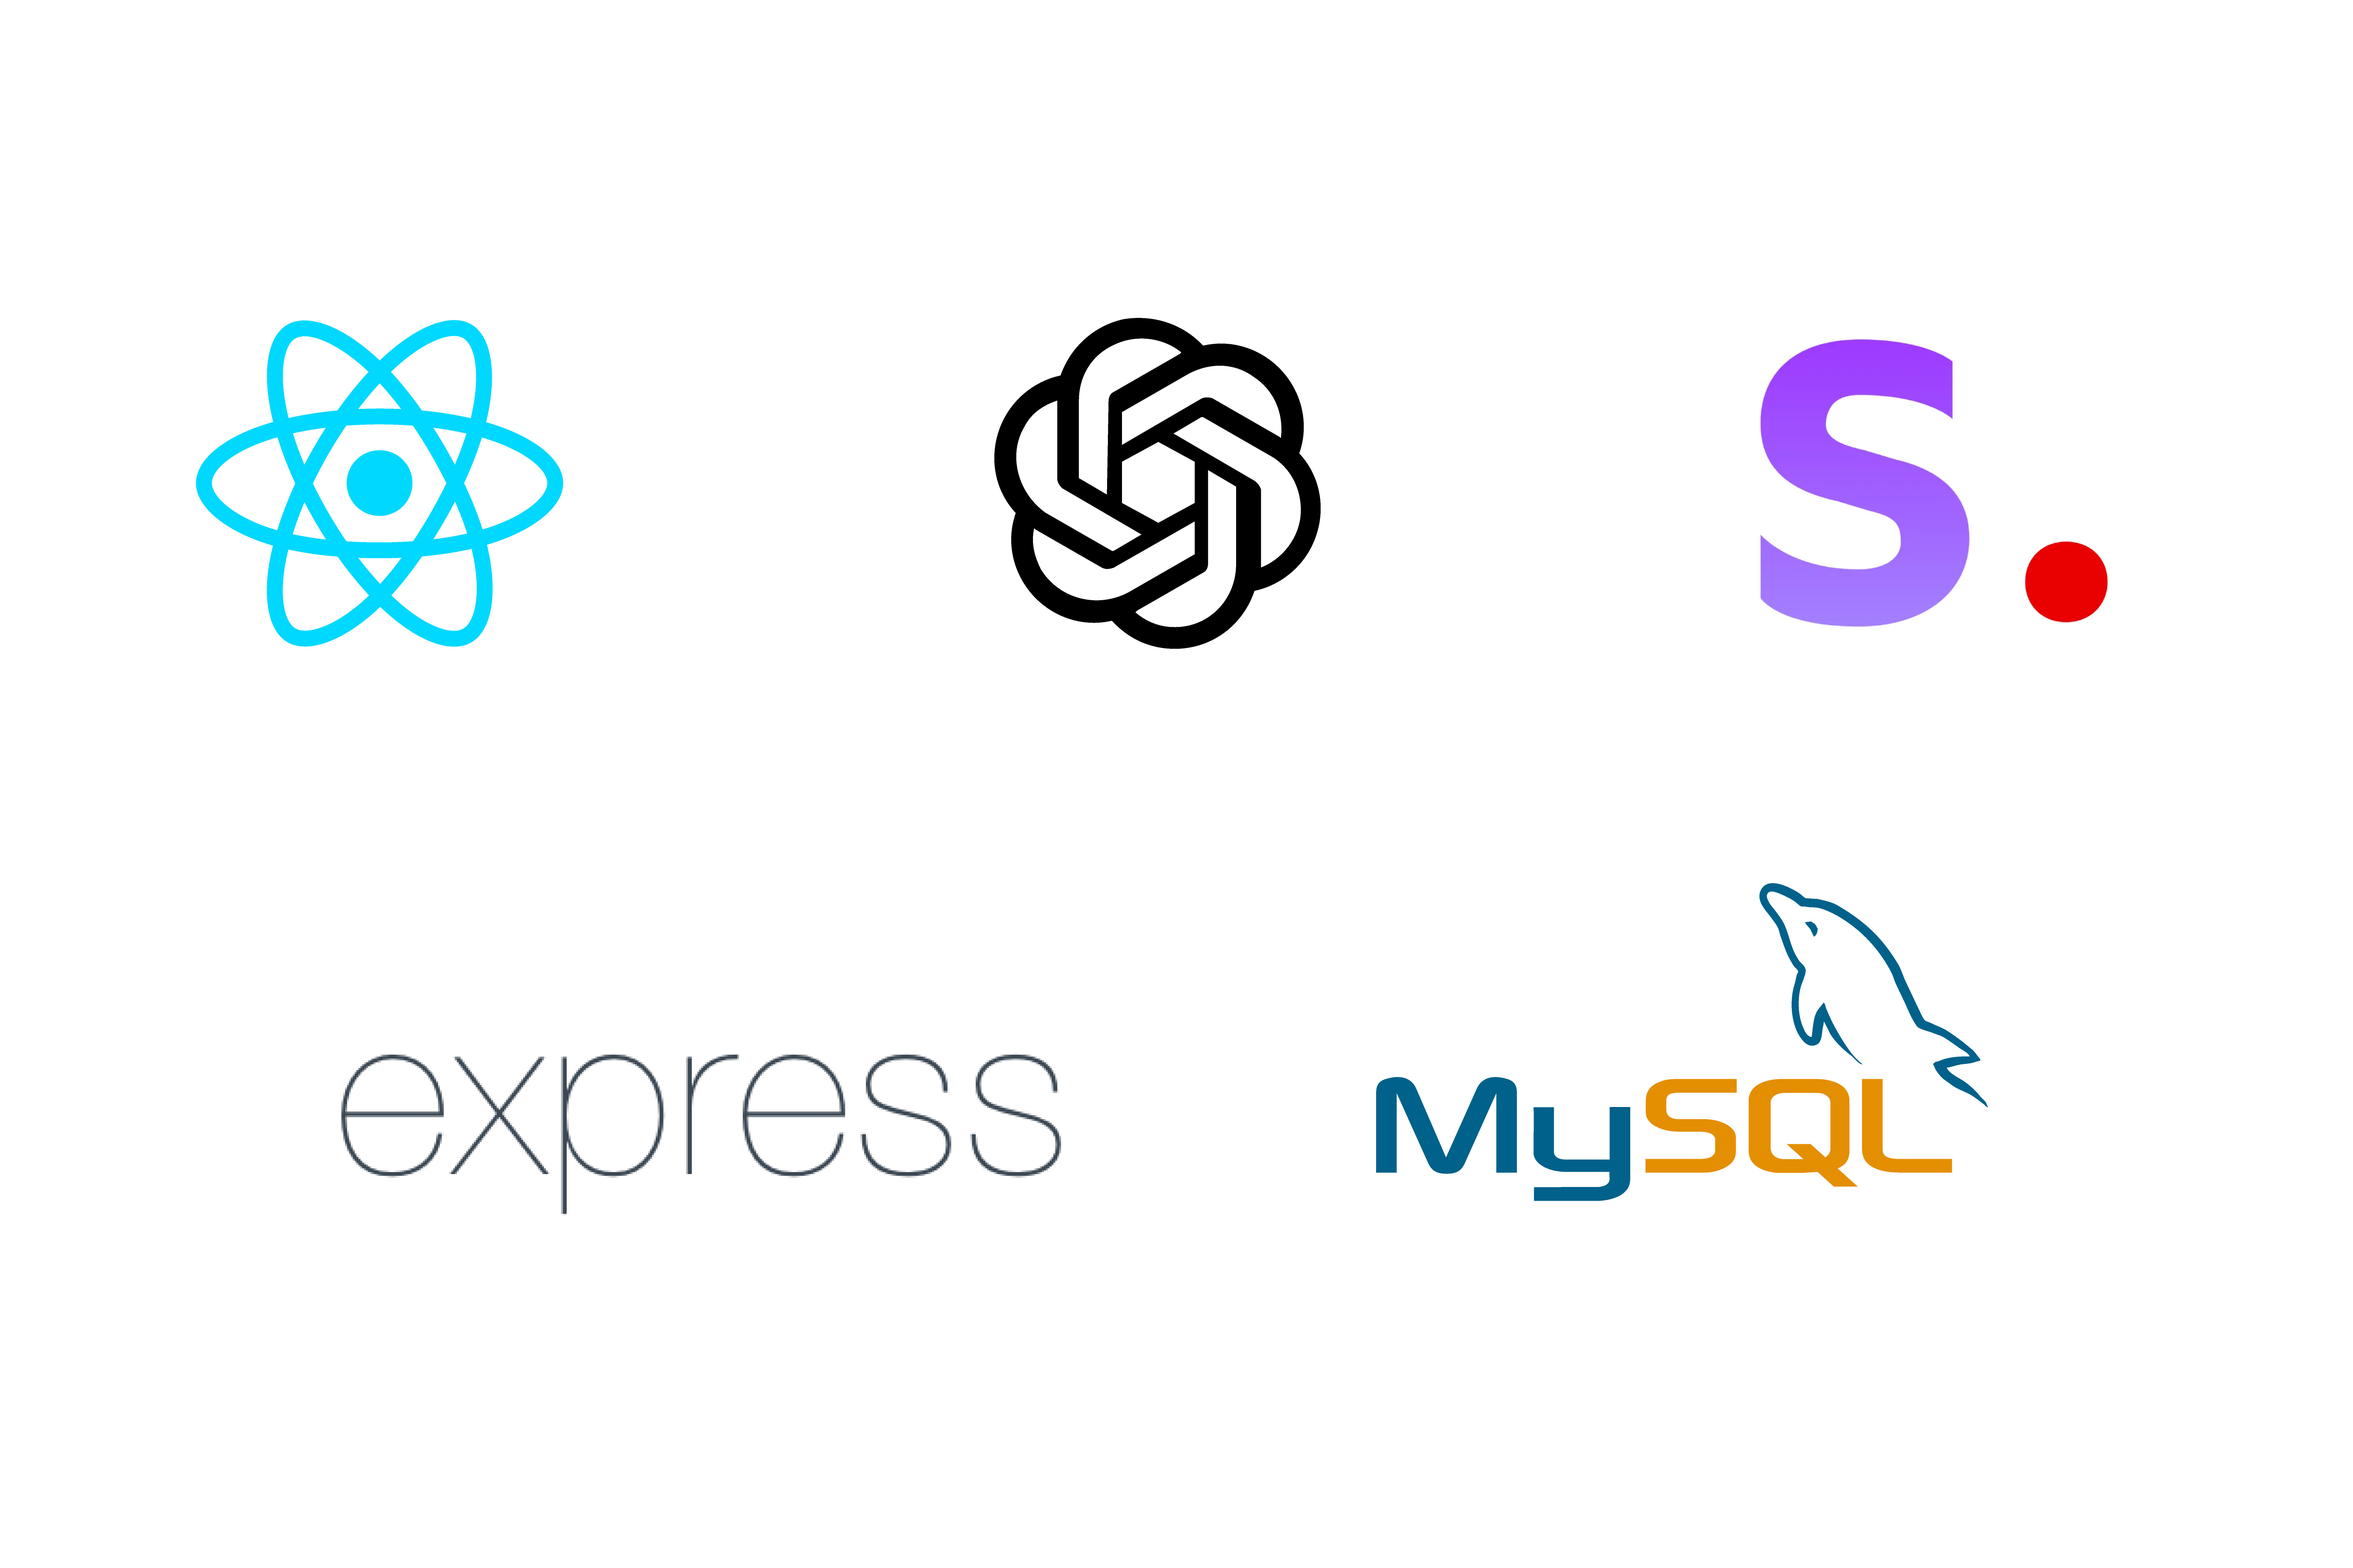
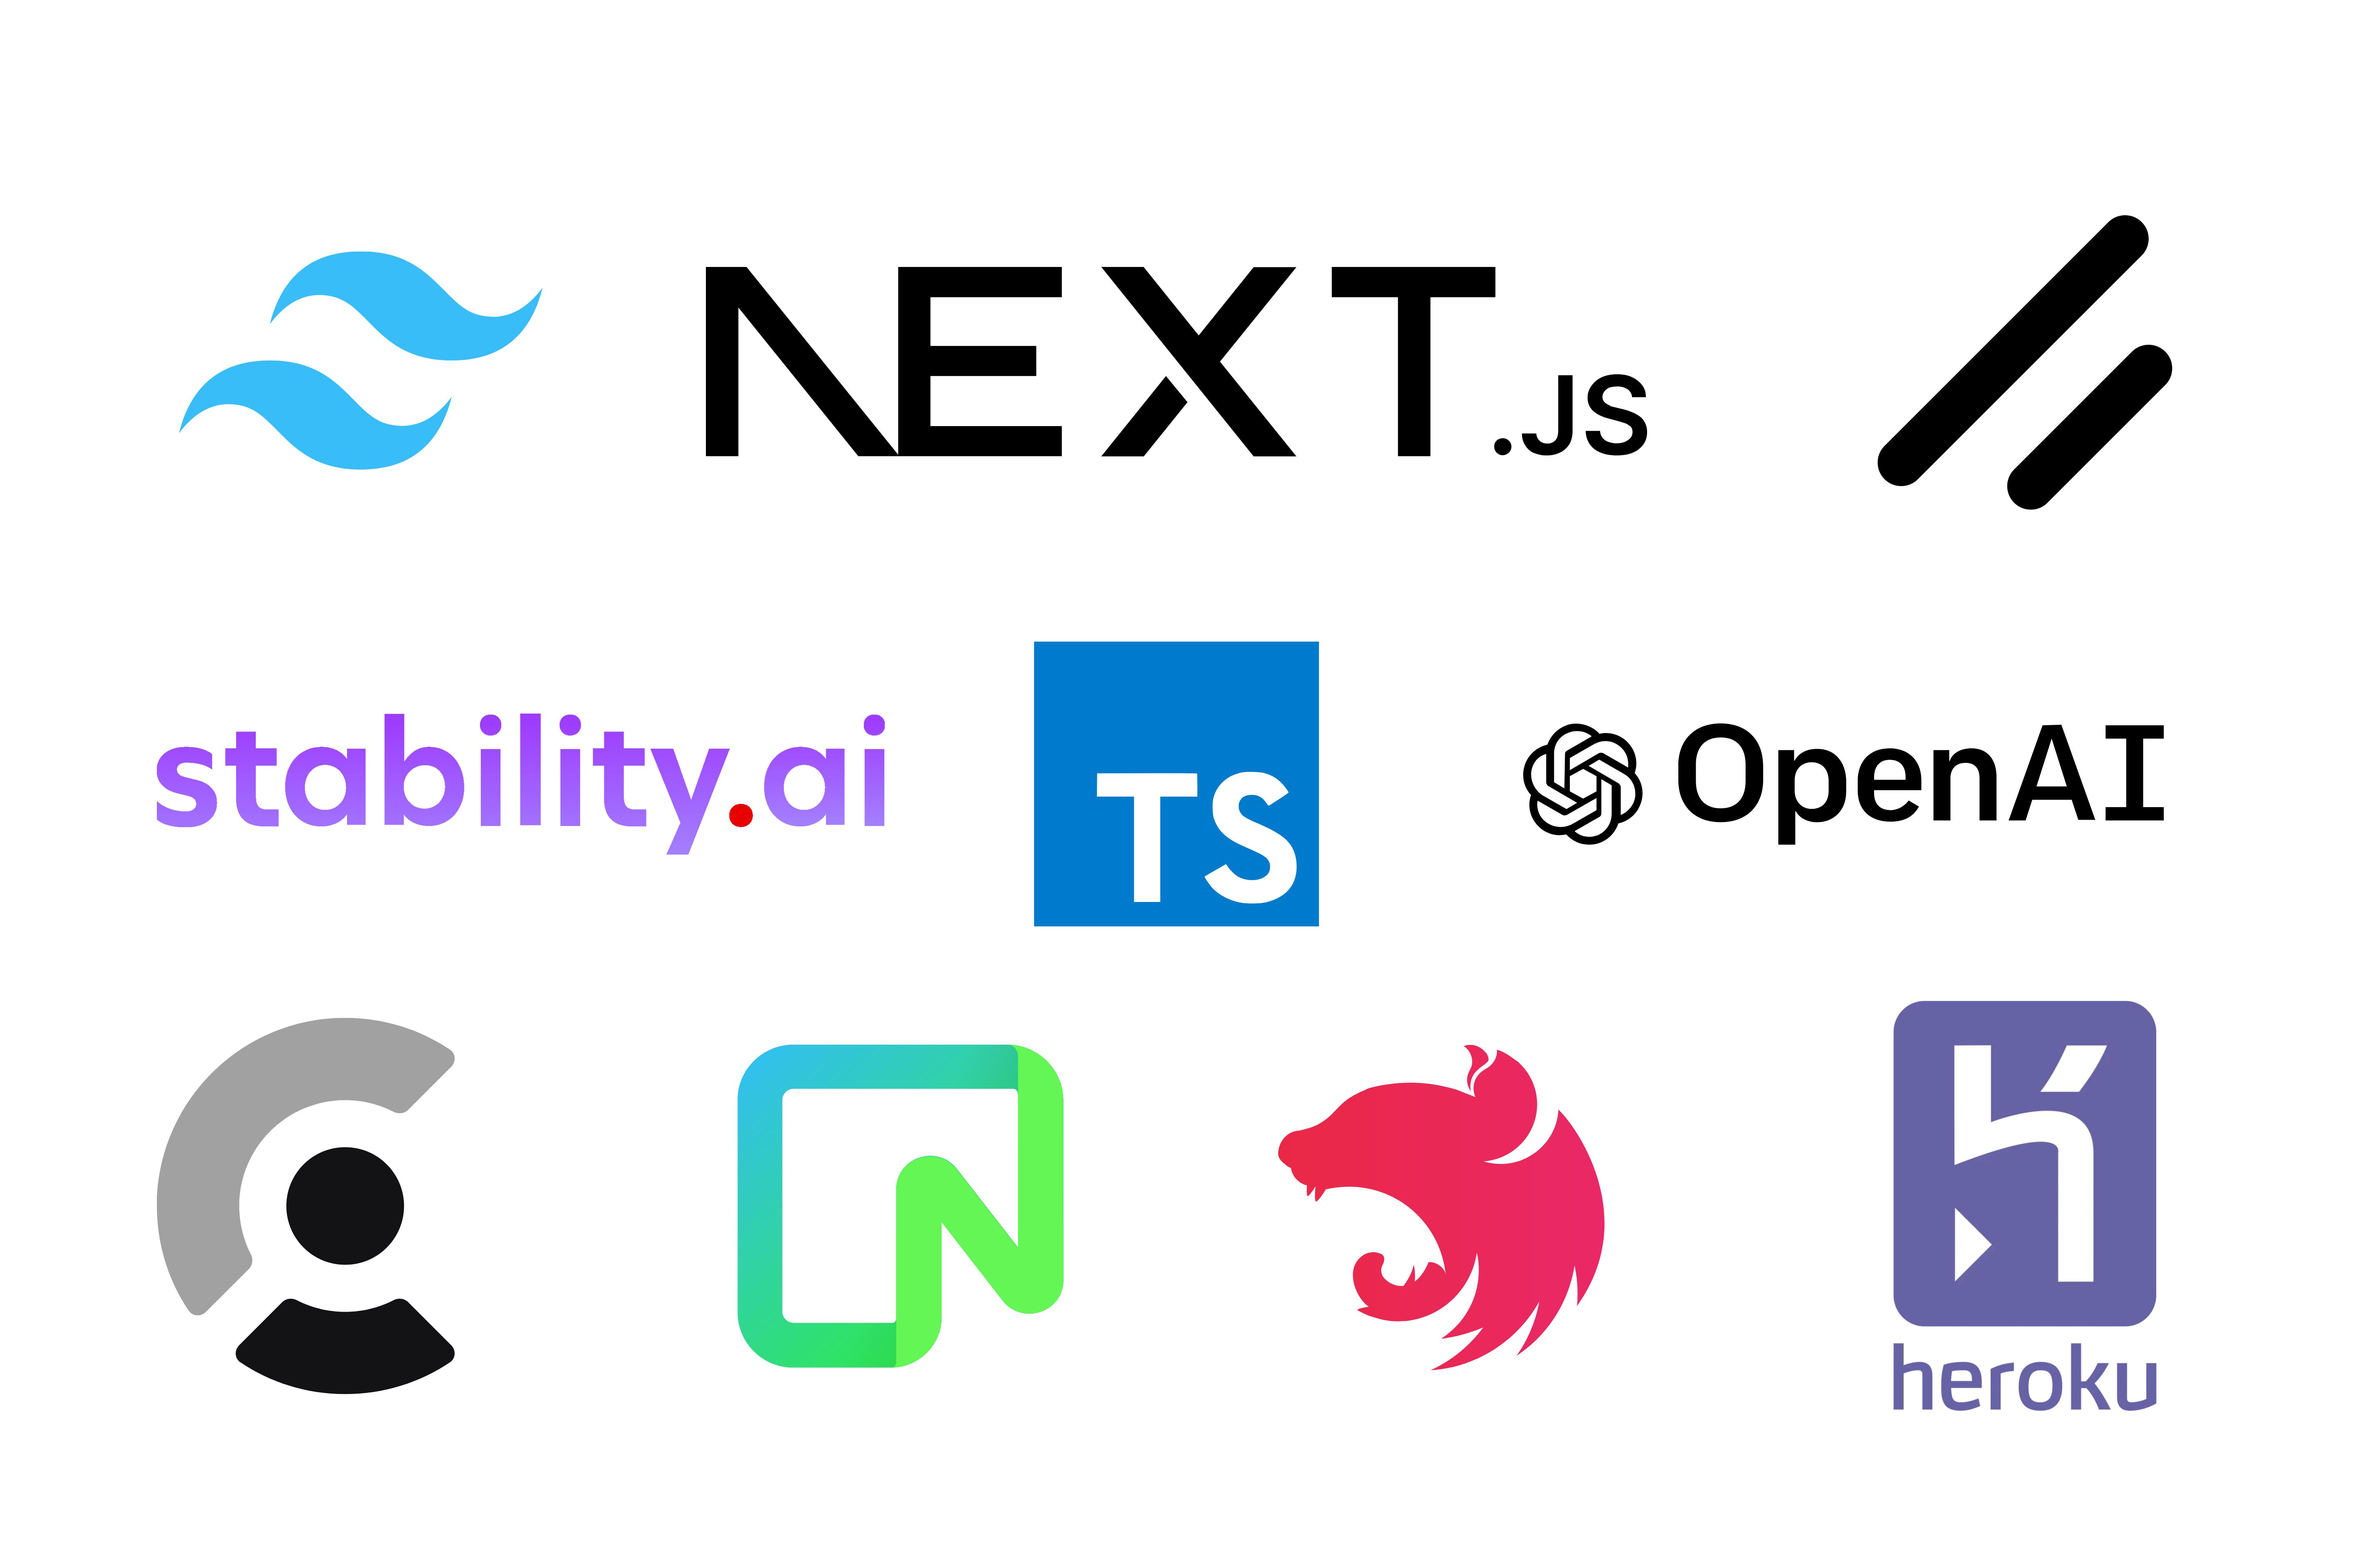
Update project description related to Kong

diff --git a/src/app/projects/data/ProjectData.tsx b/src/app/projects/data/ProjectData.tsx
@@ -21,9 +21,7 @@ export const projects = [
 		image: imgKong,
 		intro_text:
 			"Get ready to fall in love with nature! Kong is a gamified plant identification app powered by OpenAI and StabilityAI which aims to foster a love for nature in a fun and artistic way.",
-		url: "https://kong-app.netlify.app/",
-		github_frontend: "https://github.com/juliakimseohyeon/kong-app",
-		github_backend: "https://github.com/juliakimseohyeon/kong-app-api",
+		url: "thekong.ca",
 		tags: [
 			"Full Stack",
 			"Open AI",
@@ -56,7 +54,7 @@ export const projects = [
 			{
 				title: "Tech Stack",
 				description:
-					"<ul><li>React</li><li>Express</li><li>MySQL</li><li>OpenAI API</li><li>StabilityAI API</li></ul>",
+					"<ul><li><span className='font-bold'>Authentication:</span> Clerk for secure and user-friendly authentication</li><li><span className='font-bold'>Backend:</span> Nest.js with TypeScript for type safety, structure and scalability</li><li><span className='font-bold'>Database:</span> Neon.tech's serverless PostgreSQL for effortless scaling</li><li><span className='font-bold'>Frontend:</span> Next.js with TypeScript,Tailwind CSS and ShadCN UI for a beautiful, accessible, and responsive interface</li><li><span className='font-bold'>Deployment:</span> Heroku for backend services and Vercel for frontend hosting</li></ul>",
 				content: (
 					<div className="flex h-full w-full items-center justify-center">
 						<Image className="object-cover" src={imgKongTech} alt="Kong" fill />
